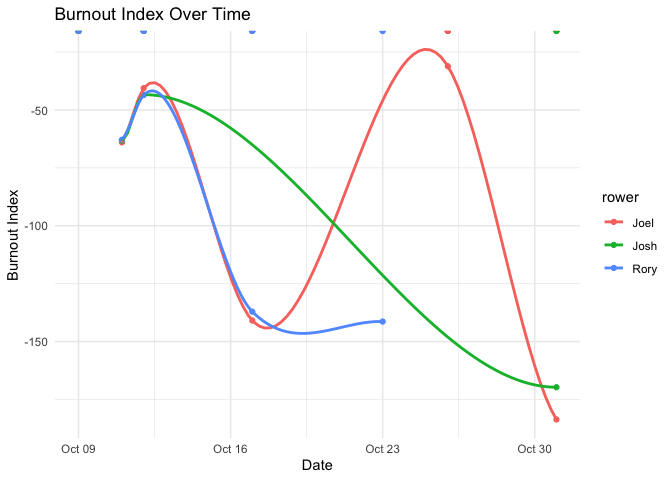
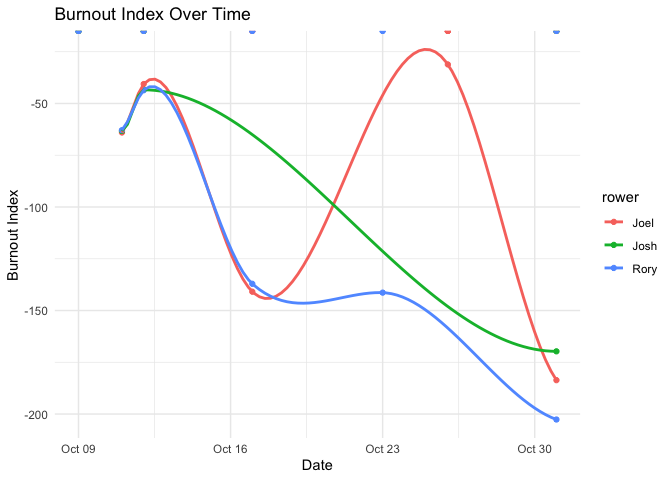
update

diff --git a/row-tracking.md b/row-tracking.md
@@ -18,7 +18,7 @@ skim(rowing_data)
 |                                                  |             |
 |:-------------------------------------------------|:------------|
 | Name                                             | rowing_data |
-| Number of rows                                   | 41          |
+| Number of rows                                   | 44          |
 | Number of columns                                | 6           |
 | \_\_\_\_\_\_\_\_\_\_\_\_\_\_\_\_\_\_\_\_\_\_\_   |             |
 | Column type frequency:                           |             |
@@ -38,12 +38,12 @@ Data summary
 
 **Variable type: numeric**
 
-| skim_variable | n_missing | complete_rate |    mean |     sd |  p0 |  p25 |  p50 |  p75 | p100 | hist  |
-|:--------------|----------:|--------------:|--------:|-------:|----:|-----:|-----:|-----:|-----:|:------|
-| erg_no        |         0 |             1 |    2.12 |   1.17 |   1 |    1 |    2 |    3 |    6 | ▇▃▁▁▁ |
-| time_mins     |         0 |             1 |    8.49 |   4.08 |   3 |    4 |   12 |   12 |   12 | ▅▁▁▁▇ |
-| distance      |         0 |             1 | 2096.24 | 925.14 | 833 | 1085 | 2571 | 2965 | 3110 | ▆▁▁▂▇ |
-| stroke_rate   |         0 |             1 |   23.24 |   4.08 |  14 |   22 |   22 |   27 |   30 | ▁▅▇▃▇ |
+| skim_variable | n_missing | complete_rate |    mean |     sd |  p0 |  p25 |    p50 |  p75 | p100 | hist  |
+|:--------------|----------:|--------------:|--------:|-------:|----:|-----:|-------:|-----:|-----:|:------|
+| erg_no        |         0 |             1 |    2.11 |   1.15 |   1 |    1 |    2.0 |    3 |    6 | ▇▃▁▁▁ |
+| time_mins     |         0 |             1 |    8.73 |   4.03 |   3 |    4 |   12.0 |   12 |   12 | ▅▁▁▁▇ |
+| distance      |         0 |             1 | 2156.18 | 920.40 | 833 | 1085 | 2666.5 | 3006 | 3110 | ▆▁▁▂▇ |
+| stroke_rate   |         0 |             1 |   22.89 |   4.24 |  14 |   20 |   22.0 |   27 |   30 | ▂▅▇▃▇ |
 
 **Variable type: POSIXct**
 
@@ -115,7 +115,7 @@ print(summary_stats)
     ##   <chr>     <dbl>          <dbl>          <dbl>      <dbl>             <dbl>
     ## 1 Joel       264.           87.3          33488        132               Inf
     ## 2 Josh       240.          102.           20642         90               Inf
-    ## 3 Rory       256.          112.           31816        126               Inf
+    ## 3 Rory       254.          123.           40742        162               Inf
 
 ``` r
 ggplot(processed_data, aes(x = date, y = burnout_index, color = rower)) +
